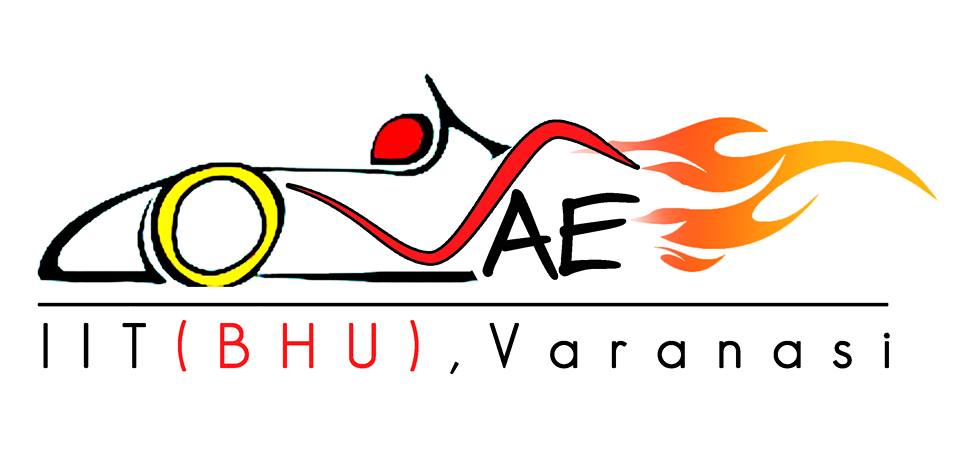
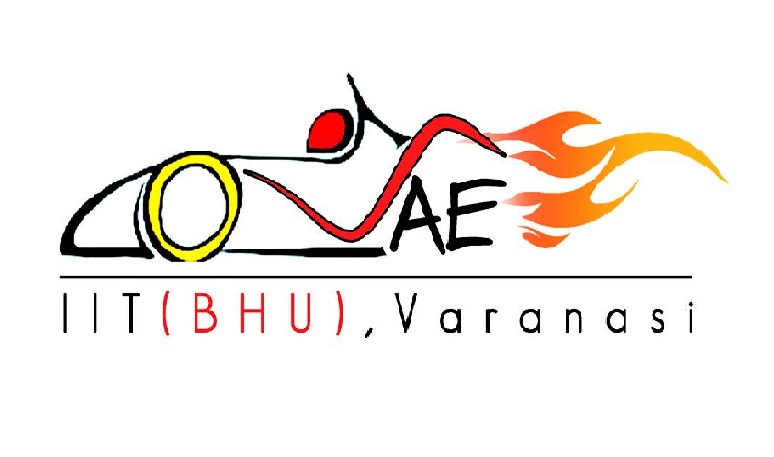
test

diff --git a/static/css/custom.css b/static/css/custom.css
@@ -570,8 +570,8 @@ color: #8E1B1B;
 }
 
 .club {
-width:140px;
-height:80px;
+width:120px;
+height:100px;
 }
 
 .team {
